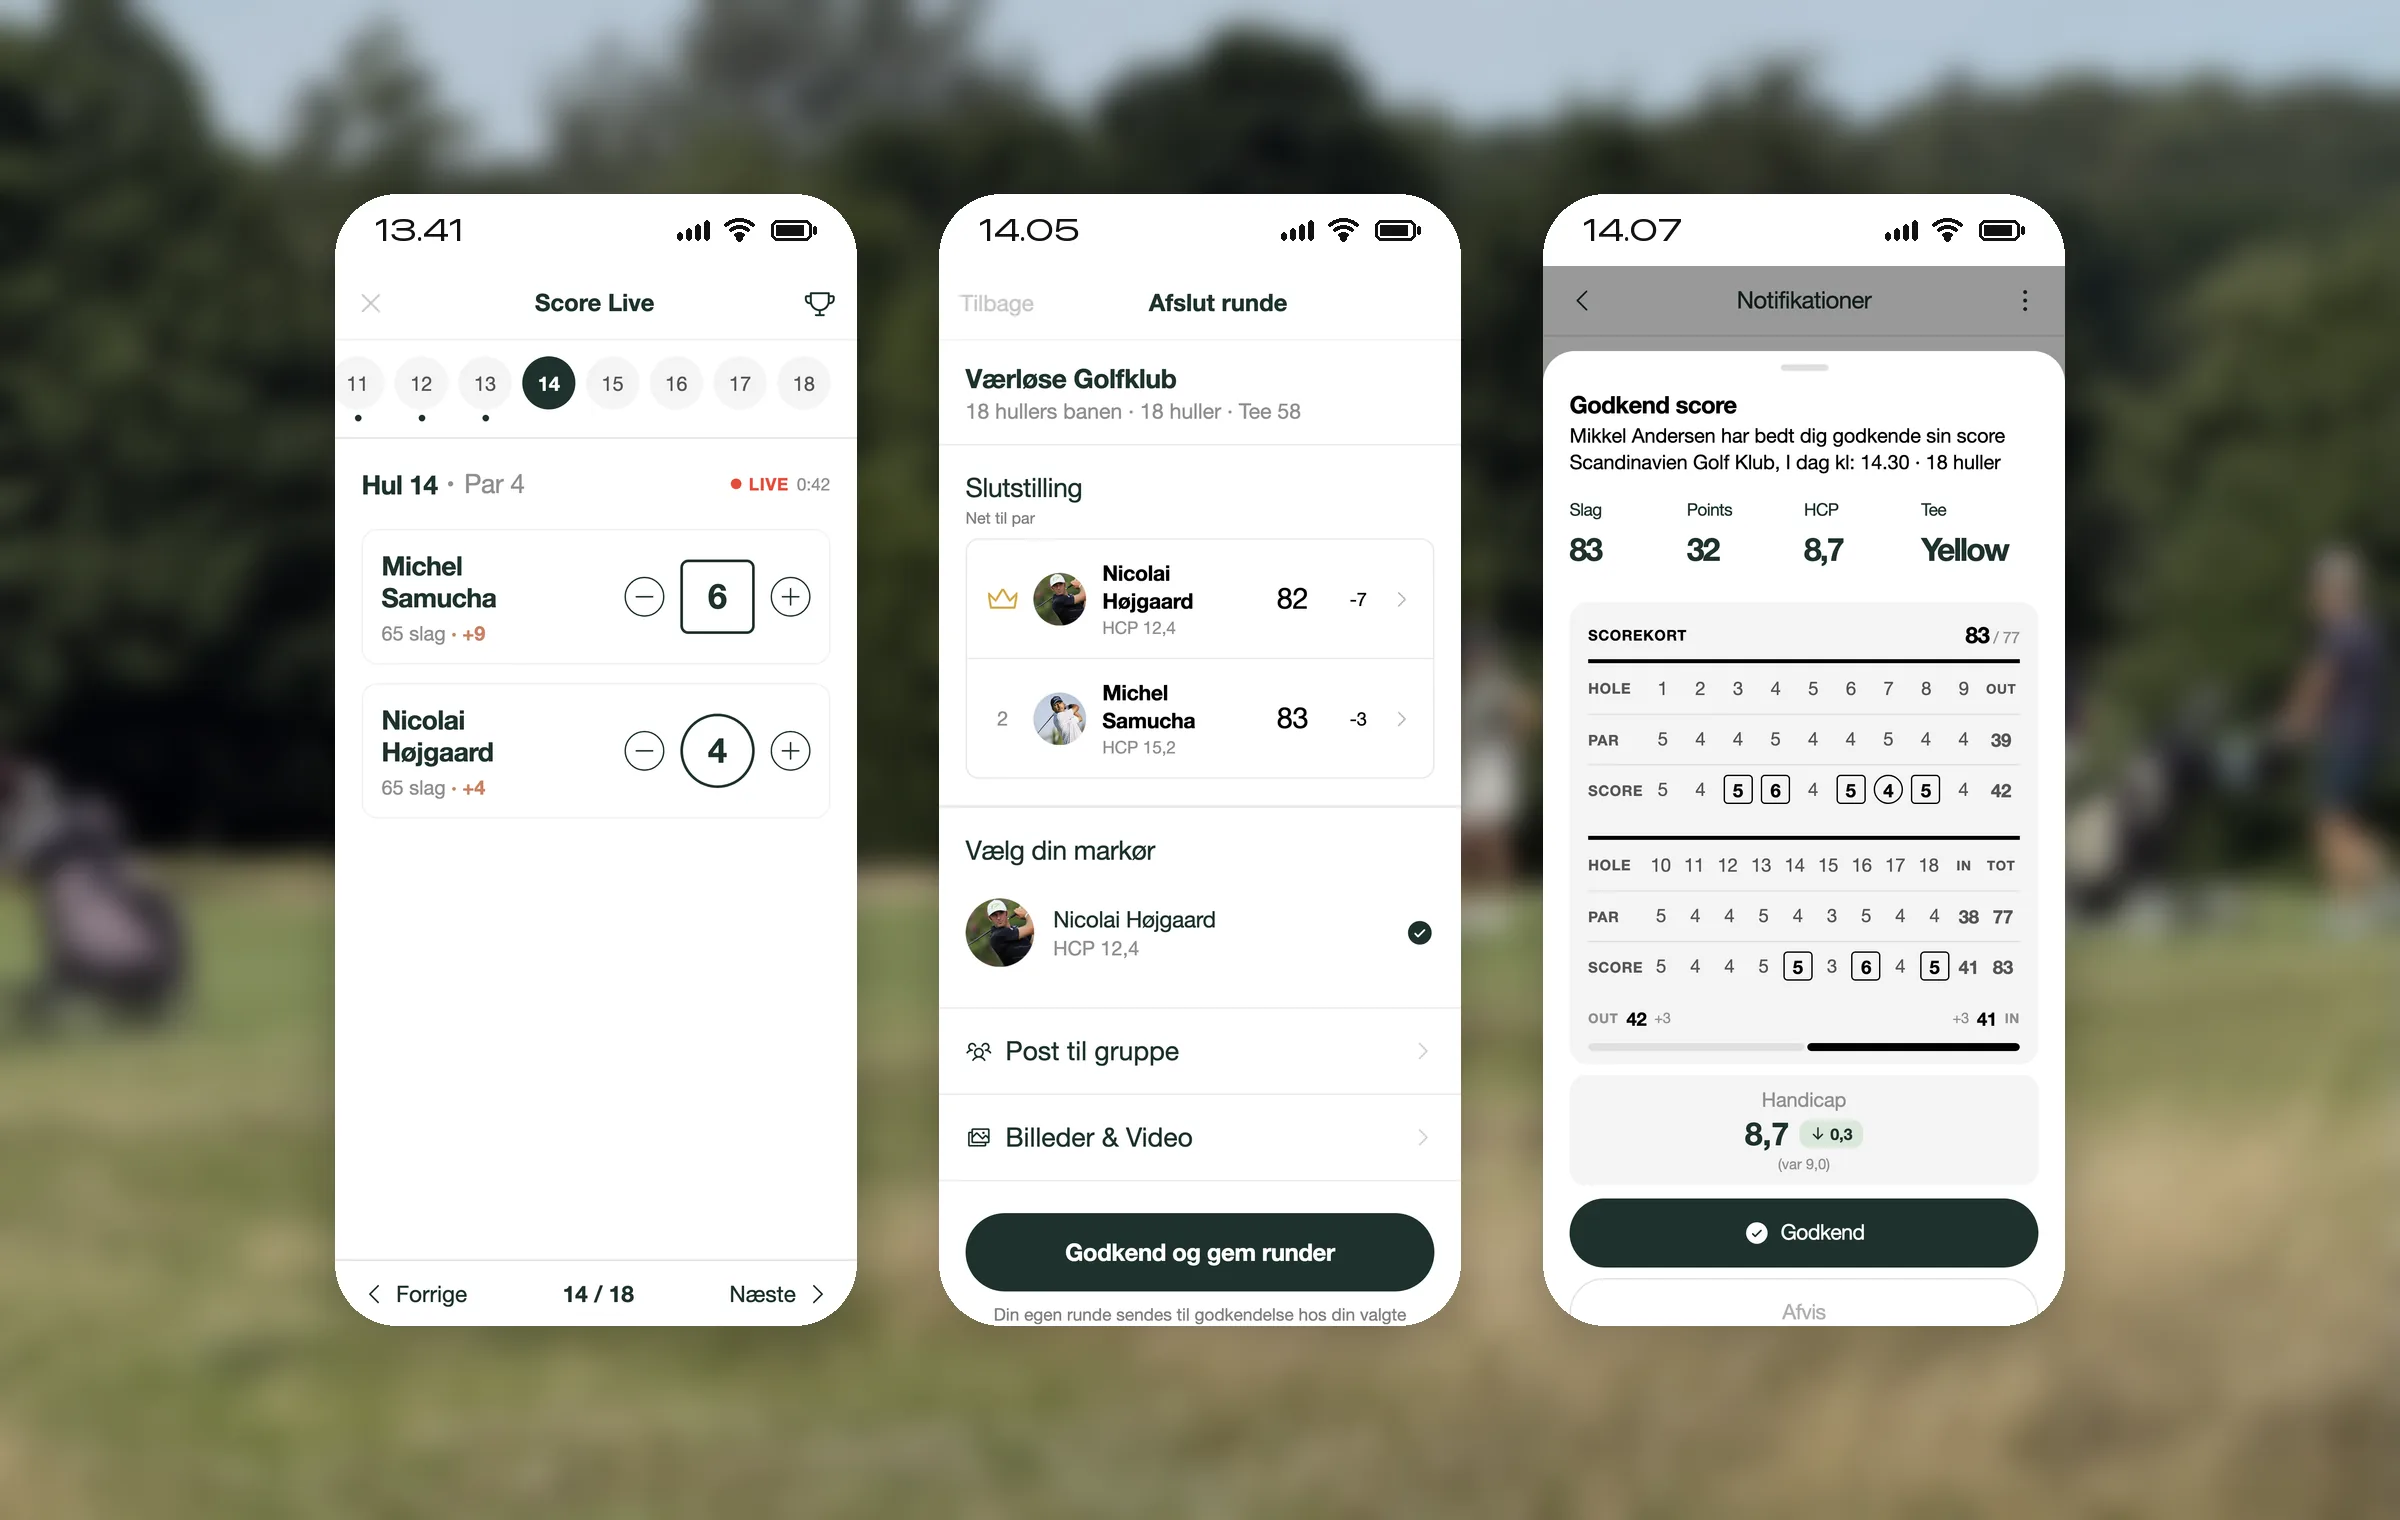
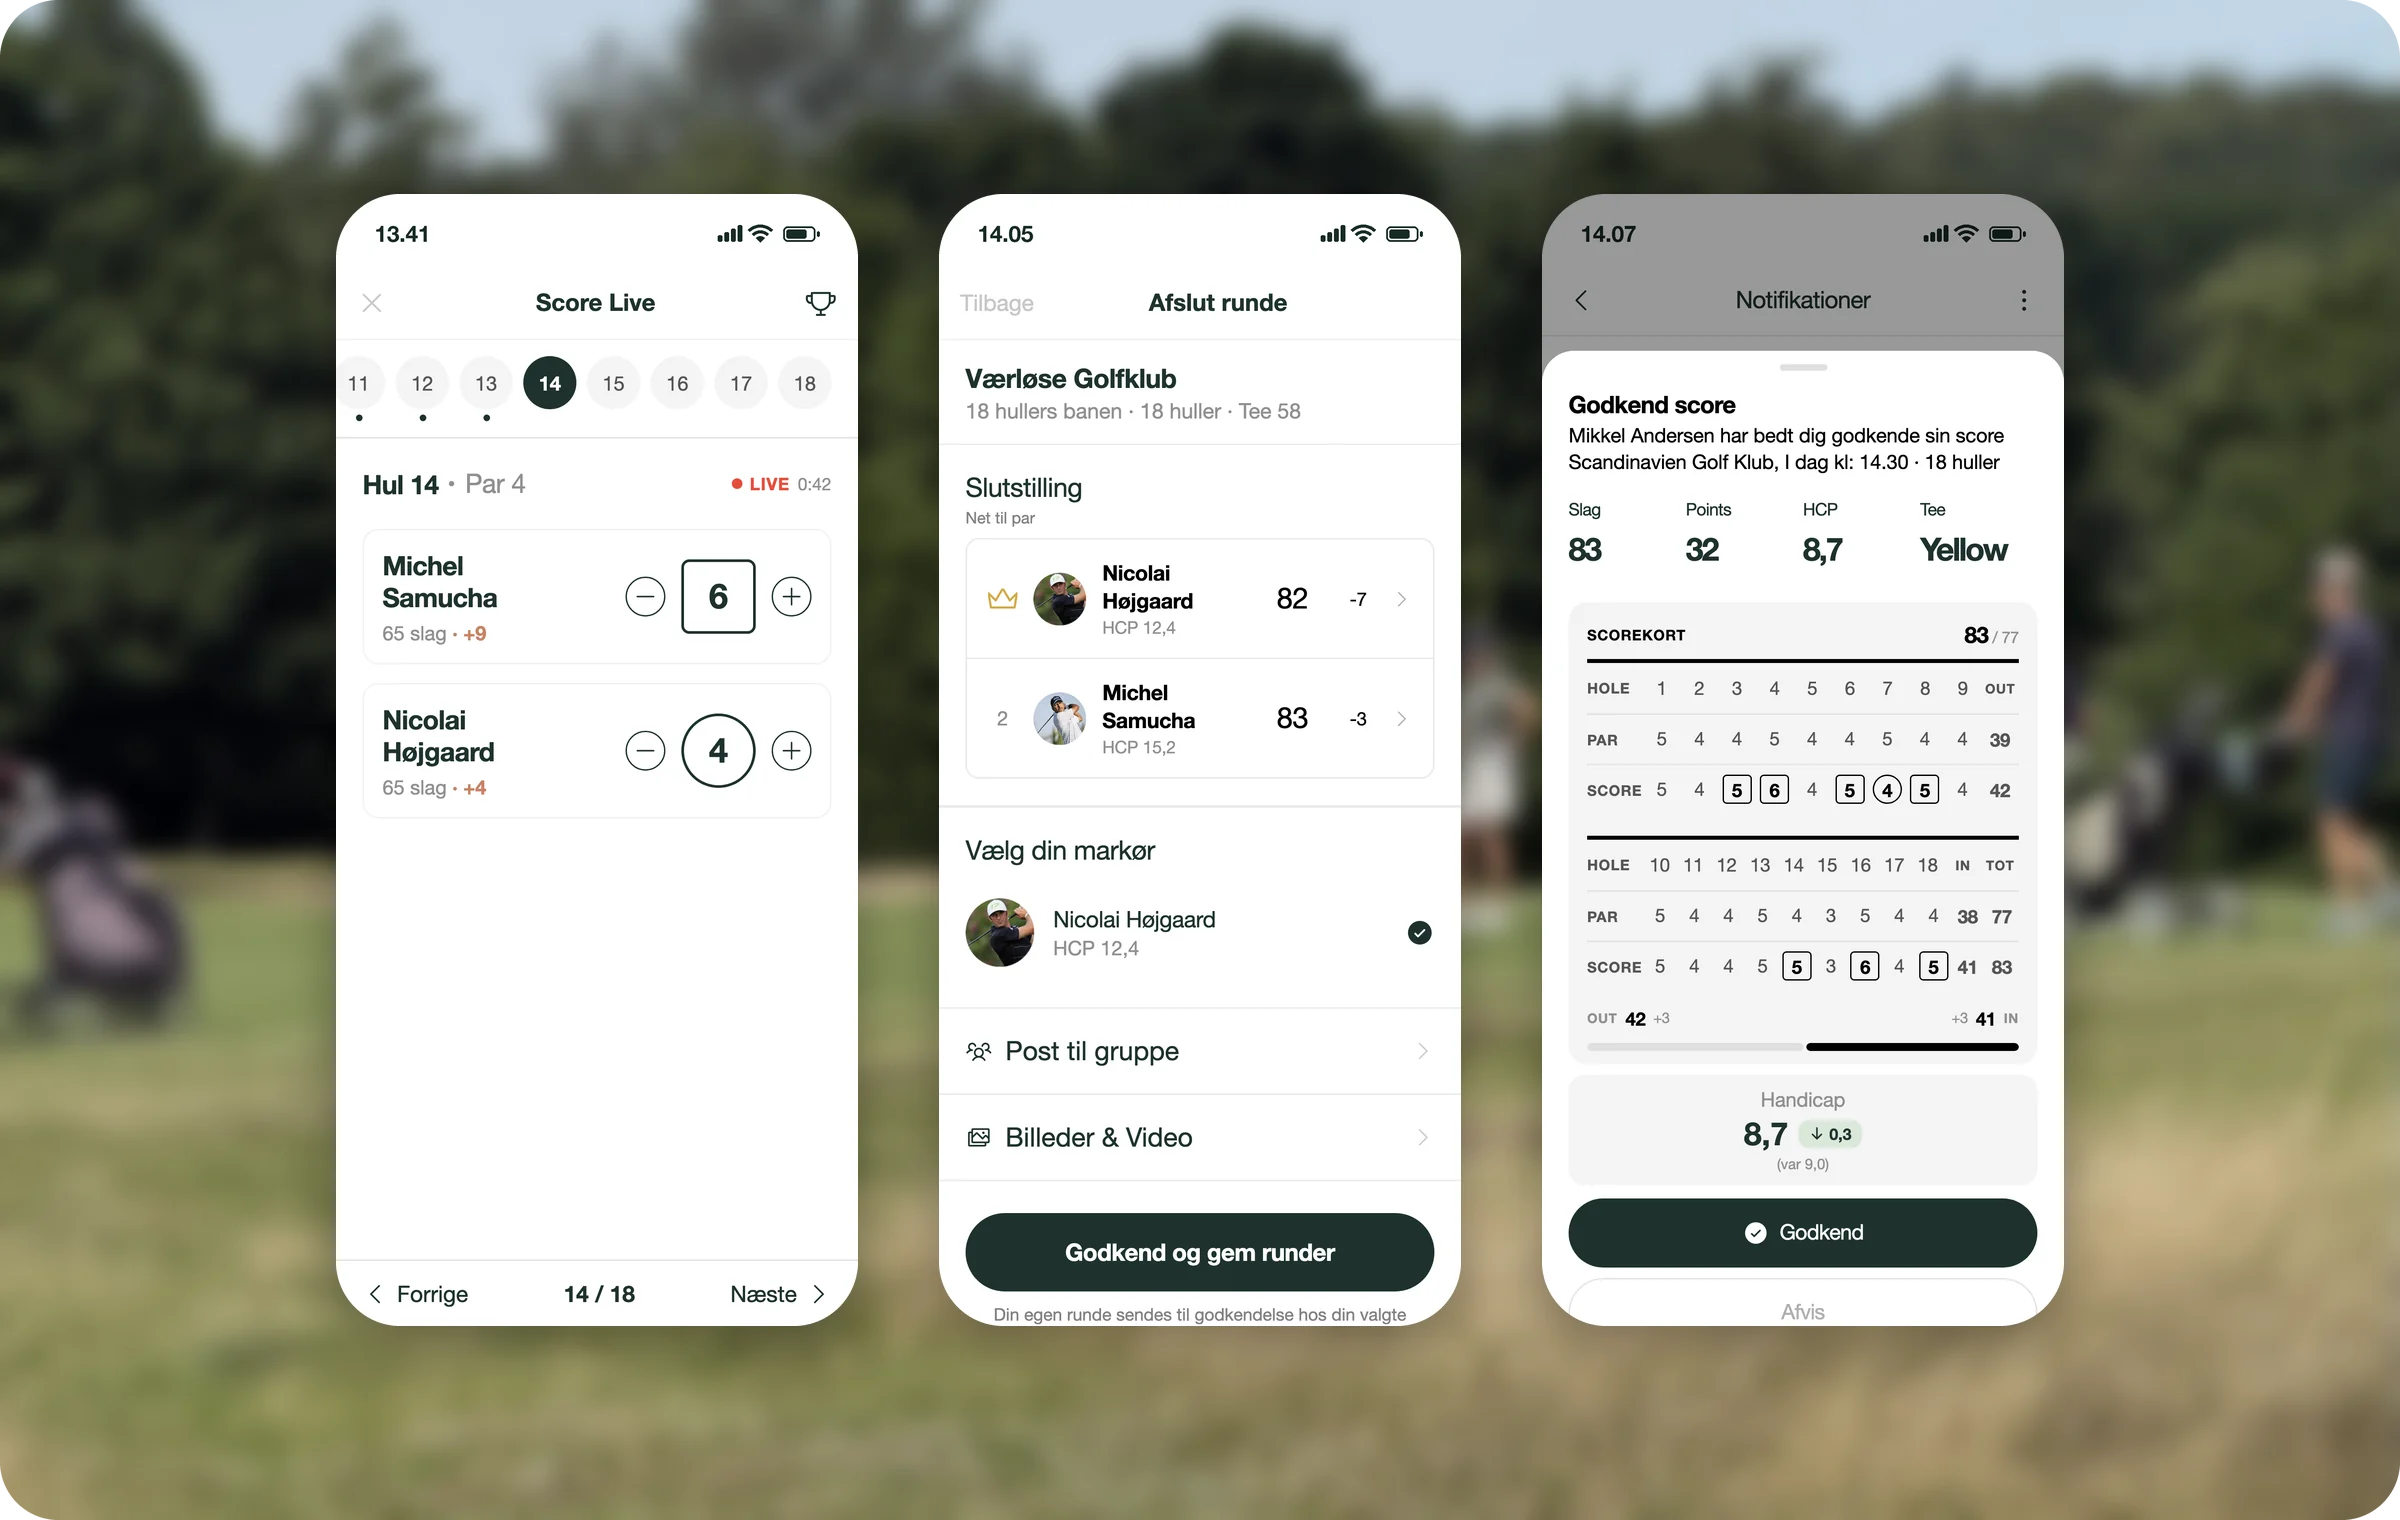
Phone images: rebuilt the marker screens (golfkoerekort + WHS), the round scorecard (golfkoerekort) and the group feed in the Stableford style: real-size status bar that dims with the screen, whole phones with rounded corners, no Head 2 head (not in the app)

diff --git a/golfkoerekort.html b/golfkoerekort.html
@@ -223,7 +223,7 @@
       <p data-da="Du behøver faktisk ikke vente på golfkørekortet for at komme i gang. Du kan spille par-3- og pay-and-play-baner helt uden golfkørekort, uden handicap og uden medlemskab. Du betaler en greenfee pr. runde, typisk omkring 100 til 200 kroner for 6 eller 9 huller, og udstyr kan oftest lejes på stedet. Par-3-baner med korte huller er lavet til nybegyndere, så det er den perfekte måde at prøve kræfter med golf, dig og vennerne, før du binder dig til noget." data-en="You do not actually have to wait for the golfkørekort to get started. You can play par-3 and pay-and-play courses with no golfkørekort, no handicap, and no membership at all. You pay a green fee per round, typically around 100 to 200 kroner for 6 or 9 holes, and gear can usually be rented on site. Par-3 courses with short holes are made for beginners, so it is the perfect way to try golf, you and your friends, before you commit to anything.">Du behøver faktisk ikke vente på golfkørekortet for at komme i gang. Du kan spille par-3- og pay-and-play-baner helt uden golfkørekort, uden handicap og uden medlemskab. Du betaler en greenfee pr. runde, typisk omkring 100 til 200 kroner for 6 eller 9 huller, og udstyr kan oftest lejes på stedet. Par-3-baner med korte huller er lavet til nybegyndere, så det er den perfekte måde at prøve kræfter med golf, dig og vennerne, før du binder dig til noget.</p>
       <p><span data-da="Du finder pay-and-play-baner og booker tider på" data-en="You can find pay-and-play courses and book tee times on">Du finder pay-and-play-baner og booker tider på</span> <a href="https://www.bookgolf.dk/" target="_blank" rel="noopener" data-da="bookgolf.dk">bookgolf.dk</a><span data-da=", Dansk Golf Unions egen platform, hvor du kan booke uden at være medlem noget sted. Vil du læse mere om at spille uden kort, har" data-en=", the Danish Golf Union’s own platform where you can book without being a member anywhere. If you want to read more about playing without a card,">, Dansk Golf Unions egen platform, hvor du kan booke uden at være medlem noget sted. Vil du læse mere om at spille uden kort, har</span> <a href="https://www.golfstart.dk/golf-for-begyndere/kom-i-gang-med-pay-play/" target="_blank" rel="noopener" data-da="Golfstart.dk en god begynderguide" data-en="Golfstart.dk has a good beginner guide">Golfstart.dk en god begynderguide</a><span data-da=". Det er den samme idé som at" data-en=". It is the same idea as">. Det er den samme idé som at</span> <a href="/golf-uden-medlemskab" data-da="spille golf uden medlemskab" data-en="playing golf without a membership">spille golf uden medlemskab</a><span data-da=".">.</span></p>
       <figure class="bleed">
-        <img src="images/golfkoerekort-inside.webp" alt="A Golfsocial round scorecard on a phone, floating over a moody Danish golf course" />
+        <img src="images/golfkoerekort-inside.webp" alt="A Golfsocial round scorecard on a phone, with the score for each hole and a breakdown of birdies, pars and bogeys, over a blurred golf course with a bunker" />
         <figcaption data-da="Spil par-3 med vennerne og hold styr på scoren i Golfsocial, længe før du har kortet." data-en="Play par-3 with friends and keep score in Golfsocial, long before you have the card.">Spil par-3 med vennerne og hold styr på scoren i Golfsocial, længe før du har kortet.</figcaption>
       </figure>
       <p data-da="Og når du er klar til golfkørekortet, har du allerede prøvet det, og du ved hvad du går ind til." data-en="And when you are ready for the golfkørekort, you have already tried it, and you know what you are getting into.">Og når du er klar til golfkørekortet, har du allerede prøvet det, og du ved hvad du går ind til.</p>
